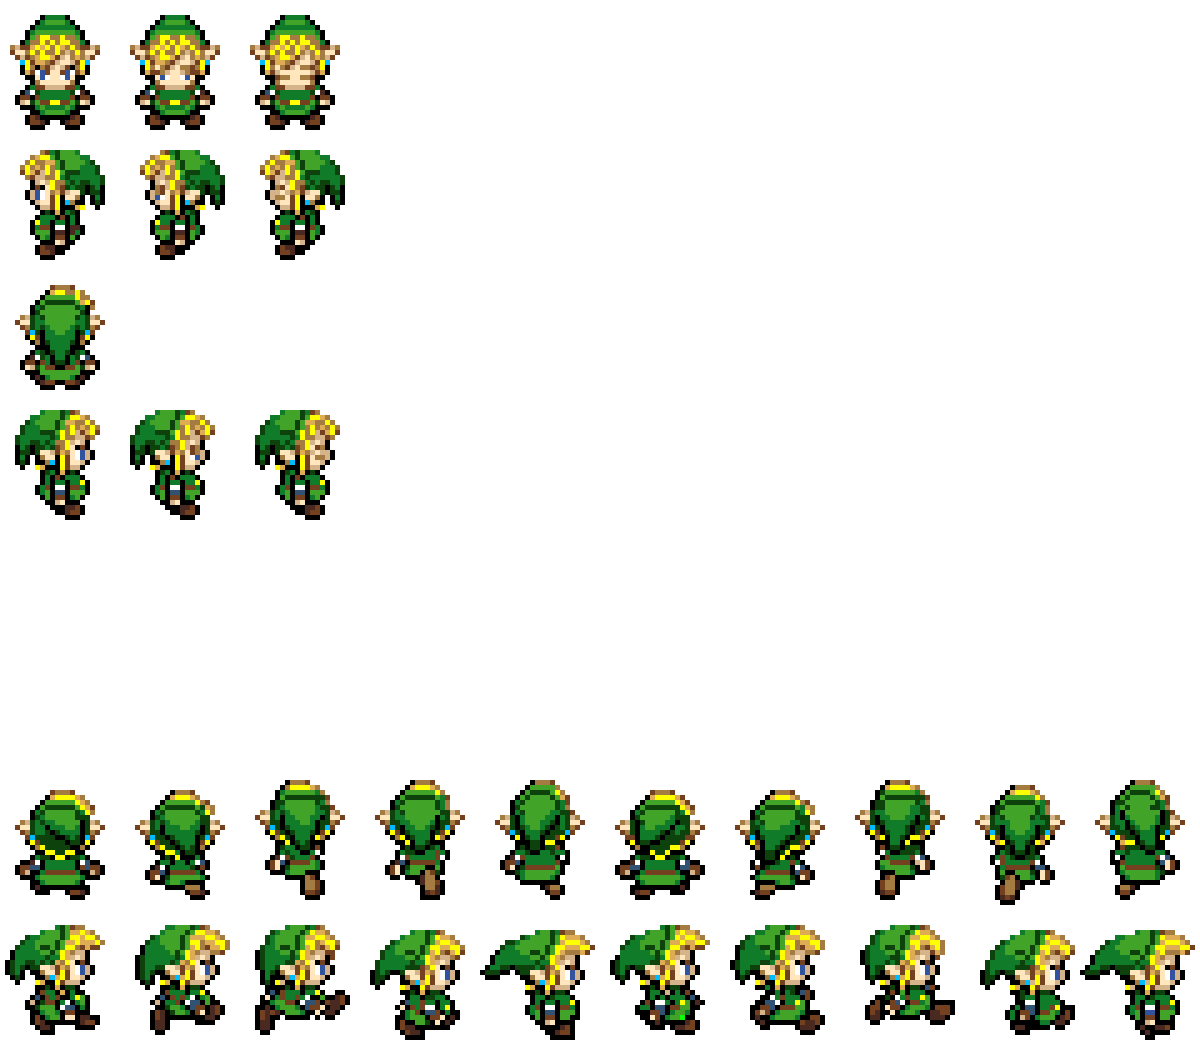
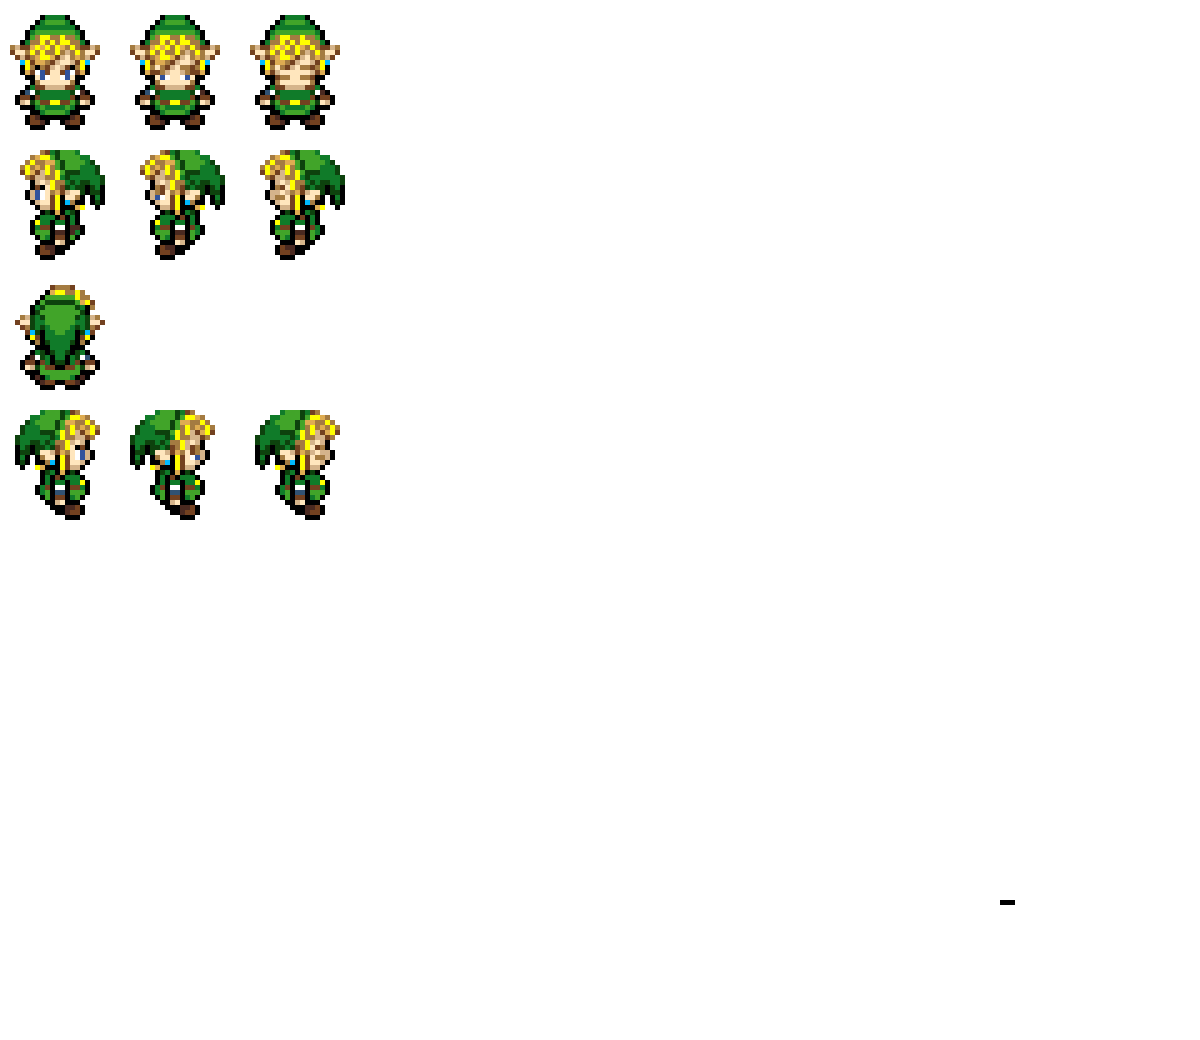
Mer animationer

Changed region(s): [[0.0, 0.7385, 1.0, 1.0], [0.6167, 0.7385, 0.6783, 0.8615]]

diff --git a/main_test_arrows.py b/main_test_arrows.py
@@ -41,22 +41,34 @@ def load_image(file):
     return surface
 sprite_sheet_image_down = load_image(f"down.png")
 sprite_sheet_image_left = load_image(f"left.png")
+sprite_sheet_image_right = load_image(f"right.png")
+sprite_sheet_image_up = load_image(f"up.png")
 sprite_sheet_down = spritesheet.SpriteSheet(sprite_sheet_image_down)
 sprite_sheet_left = spritesheet.SpriteSheet(sprite_sheet_image_left)
+sprite_sheet_right = spritesheet.SpriteSheet(sprite_sheet_image_right)
+sprite_sheet_up = spritesheet.SpriteSheet(sprite_sheet_image_up)
 black = (0,0,0)
 
 #Create animation list
 animation_list_down = []
 animation_list_left = []
+animation_list_right = []
+animation_list_up = []
+
 animation_steps = 10
 last_update = pg.time.get_ticks()
 animation_cooldown = 100
 frame = 0
+action = 0
 
 
 for x in range(animation_steps):
     animation_list_down.append(sprite_sheet_down.get_image(x,120,124,1,black))
     animation_list_left.append(sprite_sheet_left.get_image(x,120,124,1,black))
+    animation_list_right.append(sprite_sheet_right.get_image(x,120,124,1,black))
+    animation_list_up.append(sprite_sheet_up.get_image(x,120,124,1,black))
+
+animation_list = [animation_list_up,animation_list_right,animation_list_down,animation_list_left]
 
 
 # frame_1 = sprite_sheet.get_image(1,120,124,1,black)
@@ -230,7 +242,9 @@ def game_loop():
     
     gaming = True
     
-    while gaming:                            
+    
+    while gaming:
+        global action                      
         for events in pg.event.get():               
             if events.type == pg.QUIT:
                 pg.quit()
@@ -242,34 +256,43 @@ def game_loop():
                 all_sprites_list.add(new_boulder)
 
             if events.type == pg.KEYDOWN:
+                
                 if events.key == pg.K_SPACE:
                     if len(arrows) < 1:
                         new_arrow = Arrow()
                         arrows.add(new_arrow)
                         all_sprites_list.add(new_arrow)
                         mixer.Sound.play(arrow_sound)
+                
+                    
+
         
         if gaming:                         #What to do when game is active
             global frame
             global last_update
+            global action
 
             keys = pg.key.get_pressed()
             playerCar.animate(False)
             if keys[pg.K_LEFT]:
                 playerCar.animate(True)
                 playerCar.moveLeft(speed)
+                action = 3
                 
             if keys[pg.K_RIGHT]:
                 playerCar.animate(True)
                 playerCar.moveRight(speed)
+                action = 1
                 
             if keys[pg.K_DOWN]:
                 playerCar.animate(True)
                 playerCar.moveBack(speed)
+                action = 2
                 
             if keys[pg.K_UP]:
                 playerCar.animate(True)
                 playerCar.moveForward(speed)
+                action = 0
             
             if pg.sprite.groupcollide(arrows, boulders,True,True):
                 print("TRÄFF")
@@ -343,18 +366,20 @@ def game_loop():
         playerCar.update()       # PLayer update /JL
         all_sprites_list.update()
         screen.blit(map_surface, (0,0))
+        
         #update animation
         
         current_time = pg.time.get_ticks()
         if current_time - last_update >= animation_cooldown:
             frame += 1
             last_update = current_time
-            if frame >= len(animation_list_down):
+            if frame >= len(animation_list[0]):
                 frame = 0
-        screen.blit(animation_list_down[frame], (0,0))
         
-        # screen.blit(frame_1, (0,0))
-        # screen.blit(frame_2,(0,0))
+        screen.blit(animation_list[action][frame], (0,0))
+
+       
+        
         all_sprites_list.draw(screen)
         screen.blit(heart_system[0],heart_system[1])
         screen.blit(heart_system[2],heart_system[3])
